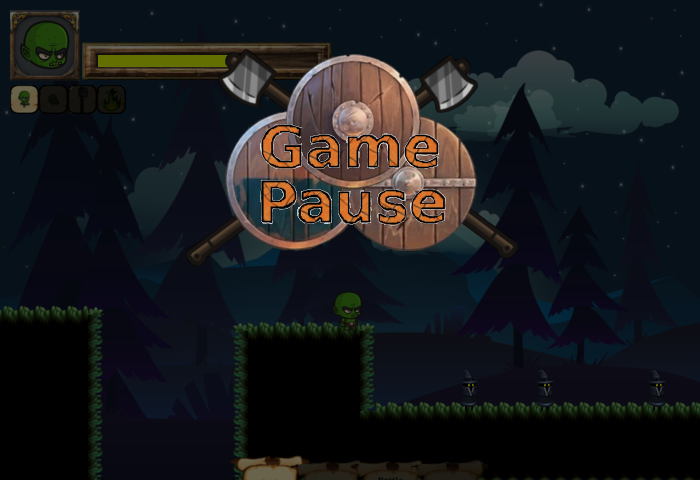
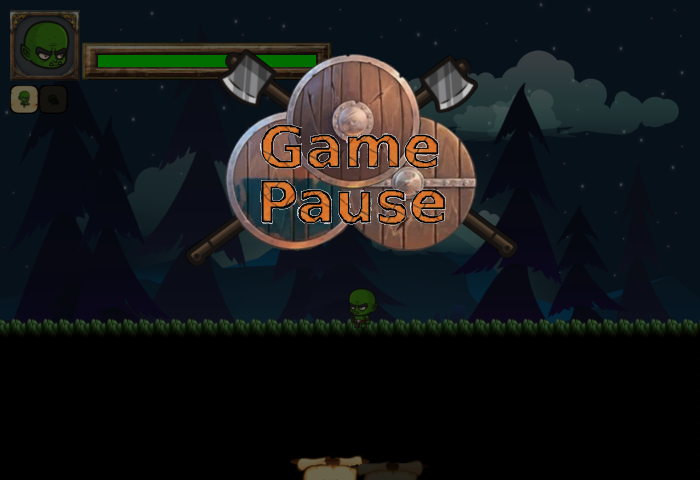
Reajusting the game envirement

diff --git a/data/menus/__init__.py b/data/menus/__init__.py
@@ -48,6 +48,7 @@ class Menus(object):
         self.pygameEvent = 0 # to keep all the pygame.event in the game loop
         self.complet = False
         self.qtlife = 0
+        
 
         
     # Method to move in the main menu
@@ -81,8 +82,9 @@ class Menus(object):
             # self.player = Player(self.screen, self.nivel, self.skills,self.lastPassPoint)
         elif(self.painelState == 3):
             self.painelState, self.user, self.nivel, self.lastPassPoint, self.qtlife, self.enimysKilled = self.userMenu.movingInUserMenu(self.user)
-            self.getUpdateUserData()
-
+            self.gamplay = GamePlay(self.screen, self.nivel, self.lastPassPoint,self.qtlife, self.pygameEvent, self.enimysKilled)
+            self.skills = Skills(self.screen, self.nivel)
+            self.map = Map(self.screen, self.nivel)
         elif(self.painelState == 6):
             self.painelState = self.intro.introDisplay()
         elif(self.painelState == 5):
@@ -94,7 +96,7 @@ class Menus(object):
             self.painelState, self.user = self.loadUser.movingInLoadMenu()
         elif(self.painelState == 7):
             self.painelState, self.player_rect, self.qtlife, self.currentenimysKilled = self.gamplay.drawingTheGamePlayEnvirement()
-            self.saveUserData()
+            # self.saveUserData()
             # self.getUpdateUserData()
             # updating the map progress
             self.map.updateProgressInMap(self.player_rect.x)
@@ -106,7 +108,7 @@ class Menus(object):
         elif(self.painelState == 10):
             self.map.drawMapInTheScreen()
         elif(self.painelState == 11):
-            self.getUpdateUserData()
+            self.updatingUserData()
             self.painelState, self.complet = self.gameOver.showGameOverPainel()
         elif(self.painelState == 13):
             self.painelState, self.complet = self.levelComplet.drawingLevelCompletPainel()
@@ -125,6 +127,7 @@ class Menus(object):
         elif(self.painelState == 18):
             self.painelState, self.complet = self.levelincompleted.showPainel()
 
+        # print(self.painelState)
         # print(self.player_rect.x, self.player_rect.y)
         # print(self.qtlife)
 
@@ -188,3 +191,4 @@ class Menus(object):
         self.gamplay = GamePlay(self.screen, self.nivel, self.lastPassPoint,self.qtlife, self.pygameEvent, self.enimysKilled)
         self.skills = Skills(self.screen, self.nivel)
         self.map = Map(self.screen, self.nivel)
+        

diff --git a/data/menus/controls/__init__.py b/data/menus/controls/__init__.py
@@ -11,6 +11,10 @@ class Controls:
         self.title = pygame.image.load("resources/image/title/MinoTrolls1.png").convert_alpha()
         self.font = pygame.font.SysFont("Arial", 12)
         self.font.set_bold(True)
+        self.font1 = pygame.font.SysFont("Arial", 14)
+        self.text = 'Controls'
+        self.size = pygame.font.Font.size(self.font1, self.text)
+        self.font1.set_bold(True)
         self.timeEfect = 0
         self.buttom = 'Back'
         self.count = 0
@@ -43,9 +47,8 @@ class Controls:
         self.background.settingBackgroundMenu(2)
         self.screen.blit(self.painel, (105, 90))
         self.screen.blit(self.title, (270, 100))
-        # self.font.set_bold(True)
-        # line = self.font.render(self.createText, True, (0, 0,0))
-        # self.screen.blit(line, ((700/2-self.size[0]/2)-7, 150))
+        line = self.font1.render(self.text, True, (255, 255,255))
+        self.screen.blit(line, ((700/2-self.size[0]/2)-4, 350))
 
         ty = 170
         for paragrf in self.controls:
@@ -60,4 +63,4 @@ class Controls:
         else:
             img = pygame.image.load("resources/image/menu/settings/"+self.buttom+"2.png").convert_alpha()
             self.timeEfect += 1
-        self.screen.blit(img, (265, 325))
+        self.screen.blit(img, (265, 300))

diff --git a/data/menus/userMenu/__init__.py b/data/menus/userMenu/__init__.py
@@ -15,6 +15,10 @@ class UserMenu(object):
         self.painel = pygame.image.load("resources/image/menu/user_menu/painel.png").convert_alpha()
         self.title = pygame.image.load("resources/image/title/MinoTrolls1.png").convert_alpha()
         self.timeOut = 0
+        self.font1 = pygame.font.SysFont("Arial", 14)
+        self.text = 'Game Menu'
+        self.size = pygame.font.Font.size(self.font1, self.text)
+        self.font1.set_bold(True)
         self.img = pygame.image.load("resources/image/menu/user_menu/animation/0_Goblin_Walking_"+str(self.timeOut)+".png")
         self.menuControl = 150
         self.timeEfect = 0
@@ -57,6 +61,9 @@ class UserMenu(object):
         self.background.settingBackgroundMenu(2)
         self.screen.blit(self.painel, (105, 60))
         self.screen.blit(self.title, (270, 70))
+
+        line = self.font1.render(self.text, True, (255, 255,255))
+        self.screen.blit(line, ((700/2-self.size[0]/2)-4, 400))
 
         if (self.menuControl==150):
             self.currentButtom = self.buttoms[0]

diff --git a/data/menus/mainMenu/__init__.py b/data/menus/mainMenu/__init__.py
@@ -10,6 +10,10 @@ class MainMenu(object):
         self.background = Back(screen)
         self.painel = pygame.image.load("resources/image/menu/painel.png").convert_alpha()
         self.title = pygame.image.load("resources/image/title/MinoTrolls1.png").convert_alpha()
+        self.font = pygame.font.SysFont("Arial", 14)
+        self.text = 'Main Menu'
+        self.size = pygame.font.Font.size(self.font, self.text)
+        self.font.set_bold(True)
         self.timeOut = 0
         self.menuControl = 150
         self.timeEfect = 0
@@ -48,6 +52,9 @@ class MainMenu(object):
         self.background.settingBackgroundMenu(2)
         self.screen.blit(self.painel, (150, 70))
         self.screen.blit(self.title, (275, 90))
+
+        line = self.font.render(self.text, True, (255, 255,255))
+        self.screen.blit(line, ((700/2-self.size[0]/2)-4, 350))
 
         if (self.menuControl==150):
             self.currentButtom = self.buttoms[0]

diff --git a/data/menus/settings/__init__.py b/data/menus/settings/__init__.py
@@ -11,6 +11,10 @@ class Settings(object):
         self.painel = pygame.image.load("resources/image/menu/painel.png").convert_alpha()
         self.title = pygame.image.load("resources/image/title/MinoTrolls1.png").convert_alpha()
         self.timeOut = 0
+        self.font = pygame.font.SysFont("Arial", 14)
+        self.text = 'Settings'
+        self.size = pygame.font.Font.size(self.font, self.text)
+        self.font.set_bold(True)
         self.menuControl = 150
         self.timeEfect = 0
         self.musicOn = True
@@ -66,6 +70,9 @@ class Settings(object):
         self.background.settingBackgroundMenu(2)
         self.screen.blit(self.painel, (150, 70))
         self.screen.blit(self.title, (275, 90))
+
+        line = self.font.render(self.text, True, (255, 255,255))
+        self.screen.blit(line, ((700/2-self.size[0]/2)-4, 350))
 
         if (self.menuControl==150):
             self.currentButtom = self.buttoms[0]

diff --git a/data/gameplay/headUpDisplay/__init__.py b/data/gameplay/headUpDisplay/__init__.py
@@ -146,13 +146,13 @@ class HeadUpDisplay(object):
     def updatingPlayerLife(self,itemType):
         # print(enimyType)
         if(itemType == 'blue wizard'):
-            self.life.updateLife(-1)
-        elif(itemType == 'stone golem'):
-            self.life.updateLife(-1)
-        elif(itemType == 'fire golem'):
-            self.life.updateLife(-1)
-        elif(itemType == 'ice golem'):
             self.life.updateLife(-10)
+        elif(itemType == 'stone golem'):
+            self.life.updateLife(-9)
+        elif(itemType == 'fire golem'):
+            self.life.updateLife(-6)
+        elif(itemType == 'ice golem'):
+            self.life.updateLife(-15)
         elif(itemType == "cactus"):
             self.life.updateLife(-10)
         elif(itemType == "life plant"):

diff --git a/data/gameplay/headUpDisplay/life/__init__.py b/data/gameplay/headUpDisplay/life/__init__.py
@@ -23,8 +23,8 @@ class Life:
         if (self.start):
             self.lifeRect = Rects(self.screen, self.qtlife, 12, 98, 55, (0,255, 0))
             self.start = False
-        
-        self.lostLifeDrawEffect()
+        if(self.qtlife >= 0):
+            self.lostLifeDrawEffect()
         return self.qtlife
         
     def lostLifeDrawEffect(self):
